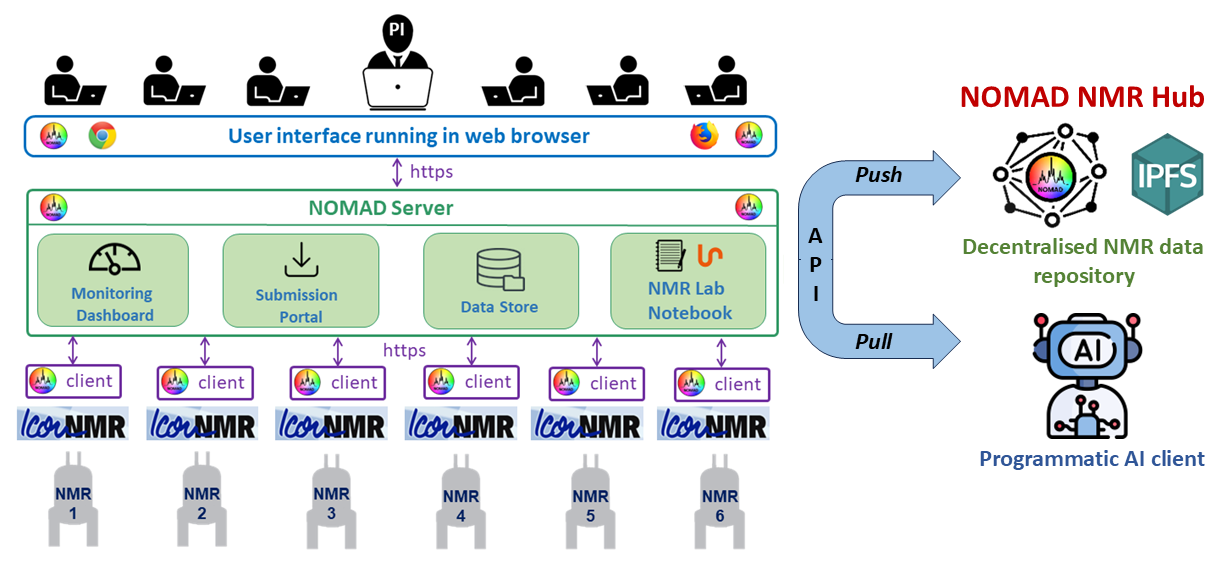
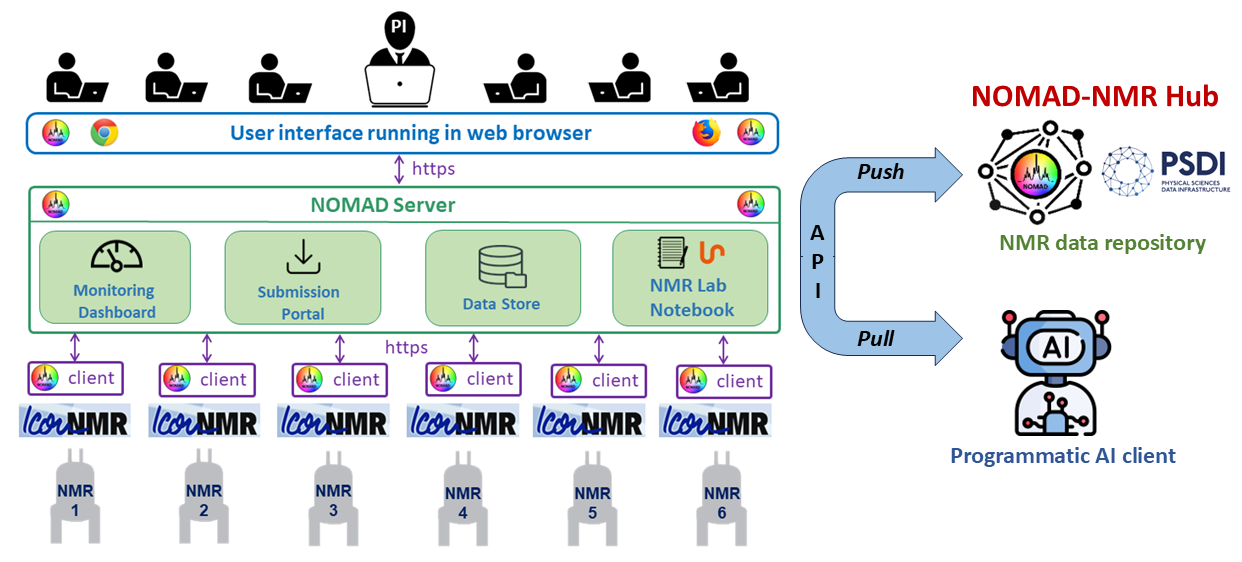
updating white paper

diff --git a/docs/whitepaper.md b/docs/whitepaper.md
@@ -6,7 +6,7 @@ sidebar_position: 1
 
 ## Abstract
 
-**NOMAD** (**N**MR **O**nline **M**anagement **A**nd **D**atastore) represents a groundbreaking solution for NMR data management, addressing the intricate challenges faced by researchers in NMR spectroscopy. This white paper unveils NOMAD's innovative approach in streamlining data handling, adhering to F.A.I.R data principles, and fostering collaborative research. From its inception, NOMAD was designed as a comprehensive platform to revolutionize NMR data management. It offers a suite of features, including the Monitoring Dashboard for integrated instrument control, the NMR Lab Notebook for seamless data processing, and a Submission Portal for improved lab traffic management. NOMAD's significance is evident in its integration within the University of St Andrews NMR lab. With 200 active users, handling data from six NMR spectrometers, and archiving over 400 NMR experiments daily during peak times, NOMAD's scalability and real-world utility are undeniable. Additionally, our vision extends to forming a decentralized P2P NMR Data Repository, echoing the collaborative success of the Cambridge Crystallographic Data Centre (**[CCDC](https://www.ccdc.cam.ac.uk/)**). NOMAD is open-source, hosted on GitHub, and operates under the Affero General Public License (AGPL-3.0). This collaborative approach ensures NOMAD aligns with evolving research needs. In conclusion, NOMAD redefines NMR data management, facilitating a seamless journey from experiment to impactful research outcomes. NOMAD beckons researchers to shape a new era of collaborative NMR research.
+**NOMAD** (**N**MR **O**nline **M**anagement **A**nd **D**atastore) represents a groundbreaking solution for NMR data management, addressing the intricate challenges faced by researchers in NMR spectroscopy. This white paper unveils NOMAD's innovative approach in streamlining data handling, adhering to F.A.I.R data principles, and fostering collaborative research. From its inception, NOMAD was designed as a comprehensive platform to revolutionize NMR data management. It offers a suite of features, including the Monitoring Dashboard for integrated instrument control, the NMR Lab Notebook for seamless data processing, and a Submission Portal for improved lab traffic management. NOMAD's significance is evident in its integration within the University of St Andrews NMR lab. With 200 active users, handling data from six NMR spectrometers, and archiving over 400 NMR experiments daily during peak times, NOMAD's scalability and real-world utility are undeniable. Additionally, our vision extends to building a national NMR Data Repository in partnership with the Physical Sciences Data Infrastructure (**[PSDI](https://www.psdi.ac.uk/)**), echoing the collaborative success of the Cambridge Crystallographic Data Centre (**[CCDC](https://www.ccdc.cam.ac.uk/)**). NOMAD is open-source, hosted on GitHub, and operates under the Affero General Public License (AGPL-3.0). This collaborative approach ensures NOMAD aligns with evolving research needs. In conclusion, NOMAD redefines NMR data management, facilitating a seamless journey from experiment to impactful research outcomes. NOMAD beckons researchers to shape a new era of collaborative NMR research.
 
 ## 1. Introduction
 
@@ -22,7 +22,7 @@ Efficient management of Nuclear Magnetic Resonance (NMR) data in laboratory sett
 
 NOMAD offers a transformative solution for NMR data management that streamlines the adherence to **[F.A.I.R](https://www.go-fair.org/fair-principles/)** principles. NOMAD serves as an end-to-end data management solution, taking NMR data from its inception through the entire research process until publication. Researchers can initiate experiments via the Submission Portal, record and analyze NMR data using the NMR Lab Notebook powered by **[NMRium](https://www.nmrium.org/)**, and securely store the data and metadata in the platform's Data Storage feature. This seamless workflow eliminates the need for data downloads to users' PCs and ensures that a direct link to raw NMR data is maintained at every stage of the research journey.
 
-Moreover, NOMAD's vision extends beyond the immediate horizon. Envisioning a future of collaborative innovation, NOMAD aspires to establish a decentralized peer-to-peer NMR Data Repository powered by the **[IPFS](https://ipfs.tech/)** protocol. In this visionary approach, multiple NOMAD instances from diverse NMR labs globally converge to form a robust network, enabling seamless sharing of resources, data, and metadata. This innovative concept fosters a global community of researchers, facilitating the exchange of knowledge and catalyzing scientific advancements within the NMR domain. NOMAD's future vision aligns harmoniously with its present-day functionalities, aiming to drive collaboration and democratize NMR data management.
+NOMAD also exposes a REST API that opens the archived data beyond the browser-based interface. Today, this API allows programmatic clients — including AI agents — to pull archived NMR data and metadata directly, enabling automated analysis and integration into wider computational workflows. Looking ahead, the same API will support publishing in the other direction: allowing users to push their data straight from their NOMAD server to the NOMAD-NMR Hub, a shared NMR data repository built in collaboration with the Physical Sciences Data Infrastructure (**[PSDI](https://www.psdi.ac.uk/)**). Together, these push and pull pathways turn NOMAD into a connective layer between individual labs, a national data repository, and the programmatic tools researchers increasingly rely on.
 
 ![NMR data solution](./assets/NMR-data-solution.png)
 
@@ -44,17 +44,15 @@ NOMAD offers automatic upload and storage of NMR datasets to ensure seamless dat
 
 NOMAD's NMR Lab Notebook provides a comprehensive tool for viewing and processing NMR data using **[NMRium](https://www.nmrium.org/)**, a cutting-edge open-source NMR data visualization and analysis software. NMRium's user-friendly interface empowers researchers to perform sophisticated NMR data processing, spectral analysis, and structure elucidation directly within the NOMAD platform which simplifies the data preparation process for publication and maintains data traceability.
 
-## 5. Future Vision - Decentralized P2P NMR Data Repository
+## 5. Future Vision - A National NMR Data Repository in Partnership with PSDI
 
-NOMAD's journey extends beyond its current capabilities, encompassing a visionary evolution in NMR data management. A central tenet of this evolution is the establishment of a decentralized peer-to-peer NMR Data Repository, underpinned by the cutting-edge **[IPFS](https://ipfs.tech/)** protocol. This ambitious vision redefines collaboration and accessibility within the NMR community, akin to the transformative role that the **C**ambridge **C**rystallographic **D**ata **C**entre (**[CCDC](https://www.ccdc.cam.ac.uk/)**) played in the realm of crystallography.
+NOMAD's future vision centres on establishing a national NMR Data Repository, built in collaboration with the Physical Sciences Data Infrastructure (**[PSDI](https://www.psdi.ac.uk/)**), the UK programme connecting data infrastructure across the physical sciences. This partnership echoes the transformative role that the Cambridge Crystallographic Data Centre (**[CCDC](https://www.ccdc.cam.ac.uk/)**) played in crystallography, offering NMR a similar shared, curated home for its data.
 
-The NOMAD network, fueled by multiple instances across global NMR labs, converges into a cohesive ecosystem, effectively forming a decentralized repository. This repository thrives on the principles of decentralization, enabling seamless sharing of resources, data, and metadata. Researchers, much like with **[CCDC](https://www.ccdc.cam.ac.uk/)**, gain unparalleled access to a wealth of NMR data that transcends geographical and institutional boundaries.
+Rather than building its own network infrastructure, NOMAD will connect individual lab instances to **[PSDI](https://www.psdi.ac.uk/)**'s established storage and data-sharing services. NOMAD focuses on capturing, processing, and curating NMR data at the point of acquisition, while **[PSDI](https://www.psdi.ac.uk/)** provides the sustainable, institutionally-backed foundation for long-term archiving and cross-disciplinary access. This division of labour lets NOMAD benefit from proven governance and interoperability standards already serving the wider physical sciences community, rather than solving these challenges alone.
 
-As a result, the NOMAD community fosters collaboration on an unprecedented scale. Researchers can draw insights from diverse datasets, accelerating scientific discoveries and breakthroughs. Moreover, NOMAD's commitment to the F.A.I.R principles finds resonance in this future vision – the repository will inherently embody Findability, Accessibility, Interoperability, and Reusability, driving data-driven advancements in NMR research.
+Data flowing into the repository will remain fully aligned with the F.A.I.R. principles, extending Findability, Accessibility, Interoperability, and Reusability from individual labs to the national NMR community.
 
-The integration of ideas inspired by **[CCDC](https://www.ccdc.cam.ac.uk/)** is a pivotal aspect of this vision. Just as **[CCDC](https://www.ccdc.cam.ac.uk/)** revolutionized crystallography by providing a centralized platform for crystal structure data, NOMAD aspires to provide a global, community-driven platform for NMR data. The collaborative spirit of NOMAD's decentralized repository aligns with the aspirations of the research community, epitomizing the power of collective knowledge and shared resources.
-
-In essence, NOMAD's future vision transcends its role as a platform; it aspires to be a catalyst for global knowledge exchange, fostering interdisciplinary collaboration and fueling the frontiers of NMR research. By channeling the spirit of **[CCDC](https://www.ccdc.cam.ac.uk/)**'s success story, NOMAD seeks to usher in a new era of accessible, collaborative, and transformative NMR data management.
+In essence, NOMAD aspires to be a bridge between individual NMR laboratories and national research data infrastructure — a contributing partner within a larger, well-supported ecosystem, fostering interdisciplinary collaboration and advancing the frontiers of NMR research.
 
 ## 6. Technology Stack
 
@@ -70,7 +68,7 @@ NOMAD's source code and development are hosted on **[GitHub](https://github.com/
 
 NOMAD has seamlessly integrated into the University of St Andrews NMR lab, becoming a cornerstone of its data management strategy. With utilization spanning six NMR spectrometers, the platform efficiently handles diverse research needs. With around 200 active users benefiting from its streamlined workflows. During peak periods, NOMAD impressively archives over 400 NMR experiments daily, showcasing its scalability and robust performance. This adoption has resulted in enhanced research productivity. By centralizing data, simplifying organization, and reducing administrative burdens, NOMAD empowers researchers to focus on deriving insights from their experiments.
 
-NOMAD's success at the University of St Andrews NMR lab fuels a broader ambition. We are actively pursuing collaborations with other NMR labs, seeking to replicate the seamless integration and benefits realized. Our ultimate vision includes weaving these labs into a decentralized peer-to-peer NMR Data Repository, fostering global collaboration and resource-sharing.
+NOMAD's success at the University of St Andrews NMR lab fuels a broader ambition. We are actively pursuing collaborations with other NMR labs, seeking to replicate the seamless integration and benefits realized. Our ultimate vision includes connecting these labs to a national NMR Data Repository, built in partnership with **[PSDI](https://www.psdi.ac.uk/)**, fostering global collaboration and resource-sharing.
 
 ## 9. Conclusion
 

diff --git a/docs/getting-started/server-installation.md b/docs/getting-started/server-installation.md
@@ -139,6 +139,7 @@ NODE_ENV='production'
 
 #Frontend host url
 FRONT_HOST_URL='###'
+HOST_NAME='###'
 
 #Password for automatically generated admin user
 ADMIN_PASSWORD='###'
@@ -161,6 +162,7 @@ SMTP_SENDER='###'
 All entries with value ### need to be edited.
 
 - **FRONT_HOST_URL** : URL of the server hosting your system. For example: `http://nomad.my_domain.uk`
+- **HOST_NAME** : The name of the hosting organisation that appears at the home page.
 - **ADMIN_PASSWORD** : A backdoor password of your choice that will enable you to login with username admin after system installation.
   :::caution
   The user admin with the password set in environmental variables is only created at server startup with no users in the database. If the user admin has already been created changing ADMIN_PASSWORD in environmental variables will not change the password in the database.  
